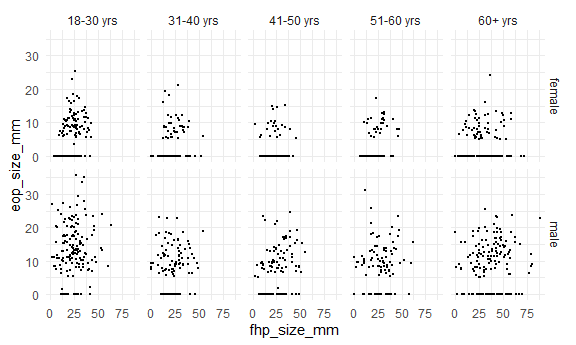
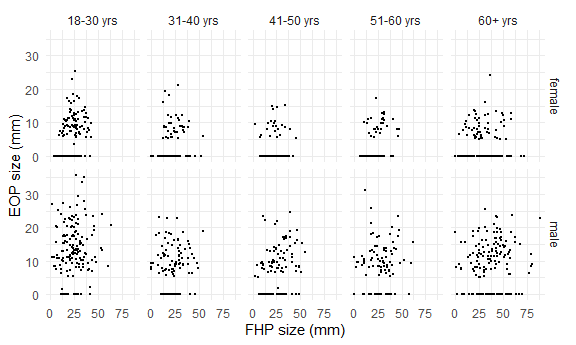
final tweaks

Changed region(s): [[0.0, 0.4348, 0.0625, 0.6377], [0.5312, 0.9275, 0.625, 0.9855], [0.4062, 0.9275, 0.4688, 0.9855]]

diff --git a/p8105_mtp_dtw2127.md b/p8105_mtp_dtw2127.md
@@ -5,10 +5,10 @@ Dee Wang
 
 ## Introduction
 
-We examine the findings presented in the 2018 article on the
-relationship between posture and enlarged external occipital
-protuberances. We examine data consistency, results presentation and try
-and reproduce results.
+We examine findings on the relationship between posture, as measured by
+degree of forward head protraction (FHP), and enlarged external
+occipital protuberances (EOP). We examine data consistency, results
+presentation and try and reproduce results.
 
 ## Problem 1 - Data
 
@@ -43,9 +43,9 @@ nature_data = nature_data %>%
                       `1` = "male")) 
 ```
 
-Key variables in the dataset include sex and age, eop\_size,
+Key variables include sex and age, eop\_size,
 eop\_visibility\_classification, eop\_shape and fhp\_size. There are
-1219 participants included in the dataset.
+1219 participants in the dataset.
 
 ``` r
   nature_data %>% 
@@ -64,10 +64,10 @@ pivot_wider(
     ## 1 female         151         102         106          99       155
     ## 2 male           152         102         101         101       150
 
-The 18-30, and 60+ years old are the largest groups. There are roughly
-equal numbers of males and females.
+The 18-30, and 60+ years old are the largest age groups. There are
+roughly equal numbers of males and females.
 
-We’ll check categorical variables assignment.
+We’ll check categorical variable assignment.
 
 ``` r
 nature_data_check = nature_data %>% 
@@ -83,7 +83,7 @@ nature_data_check = nature_data %>%
                      eop_size_mm >= 5 & eop_size_mm < 10 ~ 1, 
                      eop_size_mm >= 10 & eop_size_mm < 15 ~ 2, 
                      eop_size_mm >= 15 & eop_size_mm < 20 ~ 3,
-                     eop_size_mm >= 20 & eop_size_mm <= 25 ~ 4,
+                     eop_size_mm >= 20 & eop_size_mm < 25 ~ 4,
                      eop_size_mm >= 25 ~ 5),
          size_check = ifelse(correct_size_category == eop_size, "consistent", "inconsistent"),
          correct_vis_class = 
@@ -145,8 +145,8 @@ nature_data_check %>%
     ## 17       14.6  3                            2 inconsistent
     ## 18       12.1  3                            2 inconsistent
 
-0 participants had incorrect EOP size categorizations. Many participants
-were assigned EOP size 4 instead of 5.
+18 participants had incorrect EOP size categorizations. Many
+participants were assigned EOP size 4 instead of 5.
 
 ``` r
 nature_data_check %>% 
@@ -169,8 +169,8 @@ nature_data_check %>%
     ## 10         0                               2                 0 inconsistent
     ## # ... with 78 more rows
 
-0 participants had their visibility classification incorrectly assigned.
-Many participants were categorized as EOP size 0 instead of 1.
+88 participants had visibility classification incorrectly assigned. Many
+participants were categorized as EOP size 0 instead of 1.
 
 ``` r
 nature_data_check %>% 
@@ -193,10 +193,10 @@ nature_data_check %>%
     ## 10        89.3 4                               8 inconsistent
     ## # ... with 17 more rows
 
-27 individuals had an incorrect FHP categorization (FHP category
+27 participants had an incorrect FHP categorization (FHP category
 underestimated).
 
-Number of data inconsistencies is minimal, so we’ll leave this data in.
+Number of data inconsistencies is minimal so we’ll leave this data in.
 
 ## Problem 2 - Visualization
 
@@ -252,27 +252,27 @@ figure_4 =
 
 <img src="p8105_mtp_dtw2127_files/figure-gfm/unnamed-chunk-9-1.png" width="90%" />
 
-From the right panel, We can see a higher rate of EEOP in males. The
-highest rates of EEOP are in the youngest age group. If FHP is
-predictive of EEOP, we would expect the FHP size trend on the left to be
-similar to that of the EEOP rate trend, but this is not the case. While
-FHP sizes appear to be larger in males as compared to females, it isn’t
-clear if the differences are significant.
+From the right panel, We can see a higher rate of EEOP in males. Highest
+EEOP rates are in the youngest age group. If FHP is predictive of EEOP,
+we would expect the FHP size trend on the left to be similar to the EEOP
+rate trend (ex. highest FHP size values for 18-30 years), but this isn’t
+the case. FHP sizes appear to be larger in males than in females, but it
+isn’t clear if differences are significant.
 
 ``` r
 nature_data %>% 
-  #filter(eop_size_mm > 0) %>% 
   ggplot(aes(x = fhp_size_mm, y = eop_size_mm)) +
   geom_point(size = .3) + 
   labs() + 
-  facet_grid(sex ~ age_group)
+  facet_grid(sex ~ age_group) + 
+  labs(x = "FHP size (mm)", y = "EOP size (mm)")
 ```
 
     ## Warning: Removed 6 rows containing missing values (geom_point).
 
 <img src="p8105_mtp_dtw2127_files/figure-gfm/unnamed-chunk-10-1.png" width="90%" />
 
-There is no association between EOP size and FHP size in any of the age
+There’s no association between EOP size and FHP size in any of the age
 and sex groups. Plots don’t provide evidence that FHP is predictive of
 EOP.
 
@@ -294,7 +294,7 @@ nature_data %>%
     ## 4 51-60 yrs         200
     ## 5 60+ yrs           305
 
-Sample sizes calculated are similar to those reported by the authors
+Sample sizes calculated are similar to authors’ calculations
 (differences within 7).
 
 ``` r
@@ -326,8 +326,8 @@ eeop_n = nature_data %>%
 study_pop_n = nrow(nature_data)
 ```
 
-The prevalence we calculate is 0.3223954 is similar to the authors’
-calculations, but \~1% off.
+The prevalence we calculate (32.24)% is similar to the authors’
+calculations, but about 1% off.
 
 ``` r
 nature_data_age_n = nature_data %>%
@@ -361,7 +361,7 @@ print(table)
 
 Prevalence of FHP over 40 mm is higher in older age groups and highest
 in the 60+ years group which is consistent with authors’ observations.
-Our prevalence calculation for 60+ years is different by \~2%.
+Our prevalence calculation for 60+ years is different by about 2%.
 
 ## Problem 4 - Discussion
 
@@ -370,9 +370,11 @@ categorizations did not match data header information. Figures were also
 misleading, especially Figure 4. We calculated similar results as
 reported in the paper, but couldn’t get the exact calculations.
 
-Based on this paper, we cannot conclude that cell phones are causing
-horn growth. We would need to see data on cell phone usage, and evidence
-that screen-based activity impacts FHP size.
+We cannot conclude that cell phones are causing horn growth. We’d need
+to see data on cell phone usage, and evidence that screen-based activity
+impacts FHP size. A regression analysis to look at the association
+between FHP and EOP, adjusting for potential confounders would be
+useful.
 
 ### Word count
 
@@ -395,7 +397,7 @@ wordcountaddin::text_stats("p8105_mtp_dtw2127.Rmd")
 
 | Method          | koRpus      | stringi       |
 |:----------------|:------------|:--------------|
-| Word count      | 483         | 459           |
-| Character count | 2951        | 2951          |
-| Sentence count  | 35          | Not available |
-| Reading time    | 2.4 minutes | 2.3 minutes   |
+| Word count      | 499         | 474           |
+| Character count | 3075        | 3075          |
+| Sentence count  | 37          | Not available |
+| Reading time    | 2.5 minutes | 2.4 minutes   |
